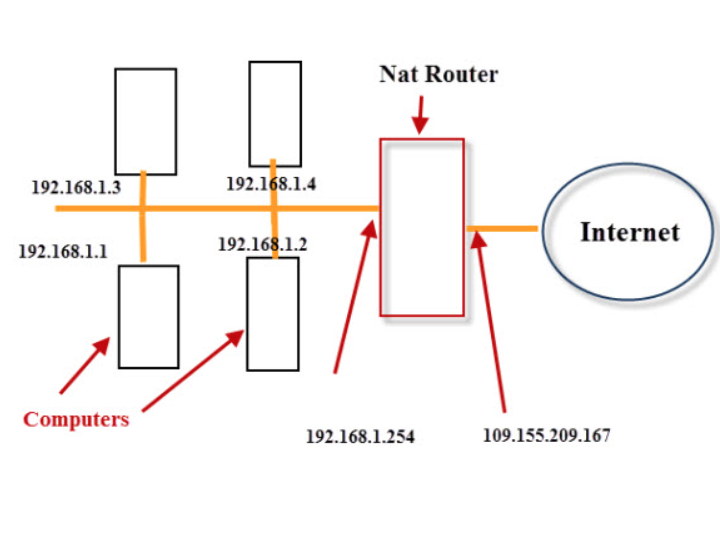
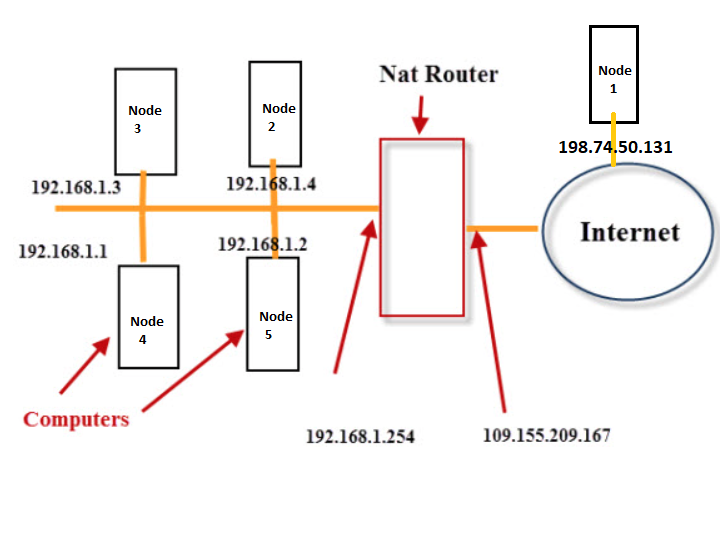
doc

diff --git a/examples/Connecting Nodes.md b/examples/Connecting Nodes.md
@@ -41,7 +41,40 @@ Here is a diagram to illustrate the IP address allocation on a typical business 
 
 ![network setup](../imgs/network.png)
 
+The following command and output reflects how the listener services are configured for a node connected to the Internet and
+a node on the local network (behind the router) of the diagram above:
 
+### Node connected to the Internet:
+
+Node 1 in the diagram is connected to the internet and only offers a single IP which is used to message the node.
+The command get connections for Node 1 will show the following:
+
+```
+get connections
+
+Type       External Address    Internal Address    Bind Address        
+---------|-------------------|-------------------|-------------------|
+TCP      |198.74.50.131:32348|198.74.50.131:32348|198.74.50.131:32348|
+REST     |198.74.50.131:32349|198.74.50.131:32349|0.0.0.0:32349      |
+Messaging|198.74.50.131:32350|198.74.50.131:32350|0.0.0.0:32350      |
+```
+This node is reached as follows:
+* From a peer node using 198.74.50.131:32348 (leveraging the TCP service of the node).
+* From an external app via REST using 198.74.50.131:32349  (leveraging the REST service of the node).
+* From a process that Publish data using 198.74.50.131:32350  (leveraging the messaging service of the node).  
+  
+The Bind address   
+### Node on a local network:
+
+```
+get connections
+
+Type      External Address        Internal Address    Bind Address        
+---------|----------------------|-------------------|----------------|
+TCP      |109.155.209.167:32348|198.168.1.4:32348|198.74.50.131:32348|
+REST     |109.155.209.167:32349|198.168.1.4:32349|0.0.0.0:32349      |
+Messaging|109.155.209.167:32350|198.168.1.4:32350|0.0.0.0:32350      |
+```
 
 ## The TCP listener - Communicating with peer nodes
 
